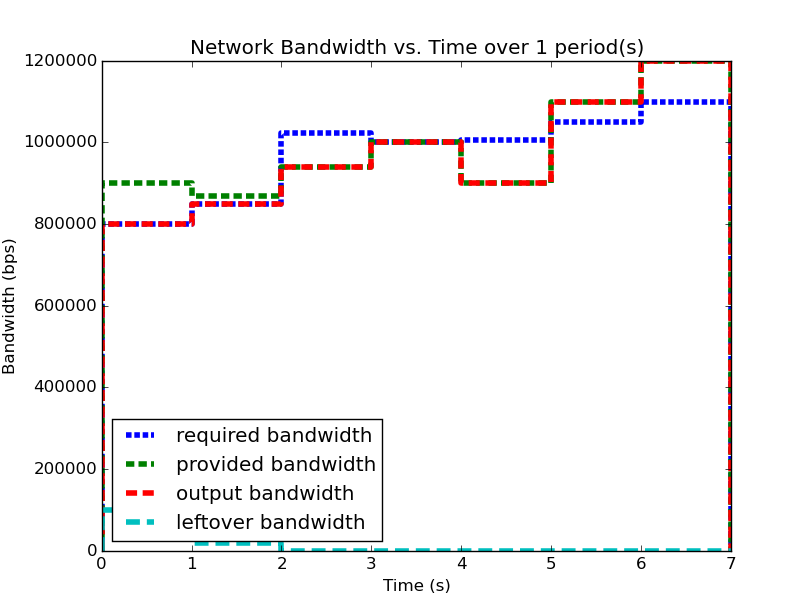
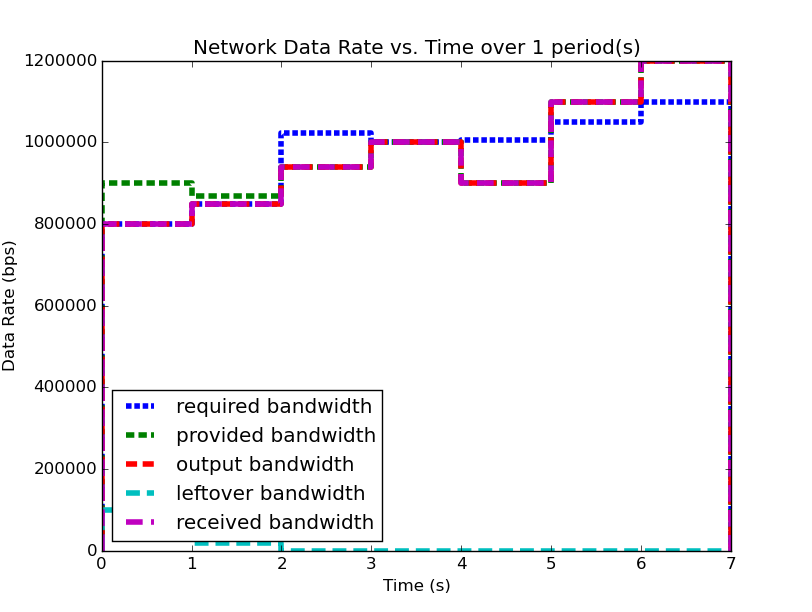
working on addressing DK's comments: updated figures, wrote formal description of routing analysis

diff --git a/doc/src/design-time.rst b/doc/src/design-time.rst
@@ -251,27 +251,21 @@ our own.  Using these capabilities, we can directly compare the
 analysis results to each other, and then finally compare both results
 to the measurements from the actual system.
 
-Taking the results from our published work, where our methods
-predicted a buffer size of 64000 bits / 8000 bytes, we show that
-Network Calculus predicts a required buffer size of 3155000 bits.
++---------------------------------------------------+-----------------------------------------------------+
+| System Data Rate vs. Time                         | System Data Analyzed with :math:`PNP^2`             |
++===================================================+=====================================================+
+| .. image:: /images/results/maren_namek_bw.png     | .. image:: /images/results/maren_namek_data.png     |
+|    :height: 200                                   |    :height: 200                                     |
++---------------------------------------------------+-----------------------------------------------------+
 
-.. _fig-bandwidth:
+.. _fig-zoom:
 
-.. figure:: /images/results/maren_namek_bw.png
+.. figure:: /images/results/maren_namek_data_zoom.png
    :align: center
    :height: 400px
    :width: 400px
 
-   Bandwidth profile describing the system and application.
-
-.. _fig-data-pnpp:
-
-.. figure:: /images/results/maren_namek_data.png
-   :align: center
-   :height: 400px
-   :width: 400px
-
-   Analysis of the system with our tools.
+   Zoomed-in version of :math:`PNP^2` analysis.
 	
 .. _fig-data-nc:
 
@@ -282,12 +276,12 @@ Network Calculus predicts a required buffer size of 3155000 bits.
 
    Network-Calculus based analysis of the system.
 
-:num:`Figure #fig-bandwidth` shows the bandwidth profile describing
-the bandwidth versus time for the example system.  :num:`Figure
-#fig-data-pnpp` shows the data versus time profile (time-integrated
-from :num:`Figure #fig-bandwidth`) as analyzed by :math:`PNP^2`.
-:num:`Figure #fig-data-nc` shows the same system analyzed using
-Network Calculus.
+The table above shows the data rate versus time profile describing the
+example system, side-by-side with the time-integrated and analyzed
+data versus time profile.  :num:`Figure #fig-zoom` shows a zoomed in
+portion of the second plot, focusing on the area with the maximum
+delay and buffer as analyzed by :math:`PNP^2`.  :num:`Figure
+#fig-data-nc` shows the same system analyzed using Network Calculus.
 
 The major drawback for Network Calculus that our work aims to solve is
 the disconnect from the real system that stems from using an approach
@@ -322,6 +316,12 @@ The results are displayed in the table below:
 +---------------------+--------------+-------------------------------+
 | Buffer Size (bytes) | 8000         | (7722.59 , 36.94)             |
 +---------------------+--------------+-------------------------------+
+
+Taking the results from our published work, where our methods
+predicted a buffer size of 64000 bits / 8000 bytes, we show that
+Network Calculus predicts a required buffer size of 3155000 bits. This
+drastic difference comes from the mis-match between down-time and max
+data production mentioned above.
 
 .. _tdma_analysis:
 	
@@ -570,63 +570,90 @@ decribed above, ensure that each flow has a priority that is unique
 within the network which governs how the transmitting and routing
 nodes handle the flow's data.
 
-We have extended our network analysis tool to support such system
-analysis by taking as input:
+Let us define the system configuration :math:`C` as:
 
-* the sender flows and receiver functions in the network
-* the provided service of each node in the network
-* the network configuration specifying the nodes in the network and
-  the routes in the network
+.. math:: C = \{\{P_S\},\{N\},\{R\}\}
 
-where a flow is defined by:
+Where
 
-* Node ID of the profile
-* Kind of the flow
-* Period of the flow
-* Flow type of the profile 
-* Priority of the flow
-* flow properties vs time profile
+* :math:`\{P_S\}` is the *set* of all *sender* profiles in the system
+  configuration
+* :math:`\{N\}` is the *set* of all *nodes* in the system configuration, and
+* :math:`\{R\}` is the *set* of all *routes* in the system configuration
 
-and a route is specified as a list of node IDs starting with the
-source node ID and ending with the destination node ID.  Any flows
-which have the respective source and destination IDs must travel along
-the path specified by the respective route.
+We define a profile :math:`P` as:
+
+.. math:: P = \{N_I,K,T,F,U,\{(t,R_D,D,L)\}\}
+
+Where
+
+* :math:`N_I` is the *Node ID* to which the profile applies
+* :math:`K` is the *kind* of the profile, where
+  :math:`K\in\{provided,required,receiver\}`
+* :math:`T` is the *period* of the profile
+* :math:`F` is the *flow ID* of the profile, where two profiles,
+  :math:`P_1,P_2` belong to the same flow *iff*
+  :math:`F_{P_1}==F_{P_2}`
+* :math:`U` is the *priority* of the profile, where profile
+  :math:`P_1` has a higher priority than profile :math:`P_2` *iff*
+  :math:`U_{P_1} < U_{P_2}`, and
+* :math:`\{(t,R_D,D,L)\}` is a *set* of :math:`(time, data\ rate,
+  data, latency)` tuples describing how each of :math:`\{data\ rate,
+  data, latency\}` vary with respect to time.  The initial profile
+  specification does not have the :math:`data` field; :math:`data` is
+  calculated based on :math:`data\ rate`.
+
+Then we define a node :math:`N` as:
+
+.. math:: N = \{I,P_P,\{P_R\}\}
+
+Where 
+
+* :math:`I` is the *ID* of the node
+* :math:`P_P` is the *provided* profile of the node, and
+* :math:`\{P_R\}` is the *set* of all *receiver* profiles on the node
+
+And finally, we define a route :math:`R` as:
+
+.. math:: R = \{N_{I_1},N_{I_2},...,N_{I_N}\}
+
+Where
+
+.. math:: \forall N_X,N_Y \subset N, \exists! R_{X,Y} = \{N_{I_X},...,N_{I_Y}\}
 
 We can then run the following algorithm to iteratively analyze the
-flows and the system
+system:
 
 .. code-block:: C#
 
-  analyze( profiles )
+  analyze( sender_profiles )
   {
-    profiles = sorted(profiles, priority)
-    for required in profiles
+    sender_profiles = sorted(sender_profiles, priority)
+    for required_profile in sender_profiles
     {
-      transmitted_nodes = []
-      for receiver in required.receivers()
+      transmitted_nodes = list.empty() 
+      for receiver_profile in required_profile.receiver_profiles()
       {
-        route = required.route()
+        route = getRoute(required_profile, receiver_profile)
 	for node in route
 	{
 	  if node in transmitted_nodes and multicast == true
 	  {
 	    continue
 	  }
-	  provided = node.provided
-	  [output, remaining, received] = convolve(required, provided)
-	  node.provided = remaining
-	  required = received
+	  provided_profile = node.provided_profile
+
+	  tuple(output, remaining, received) = convolve(required_profile, provided_profile)
+
+	  node.provided_profile = remaining
+	  required_profile = received
 	  transmitted_nodes.append(node)
 	}
-	[recv_output, recv_remaining, ] = convolve(required, receiver)
+	tuple(recv_output, recv_remaining) = convolve(required_profile, receiver_profile)
       }
     }
   }
 
-
-.. .. figure:: /images/results/algorithm.png
-..	    :height: 600px
-..	    :width: 600px
 
 In this algorithm, the remaining capacity of the node is provided to
 each profile with a lower priority iteratively.  Because of this
